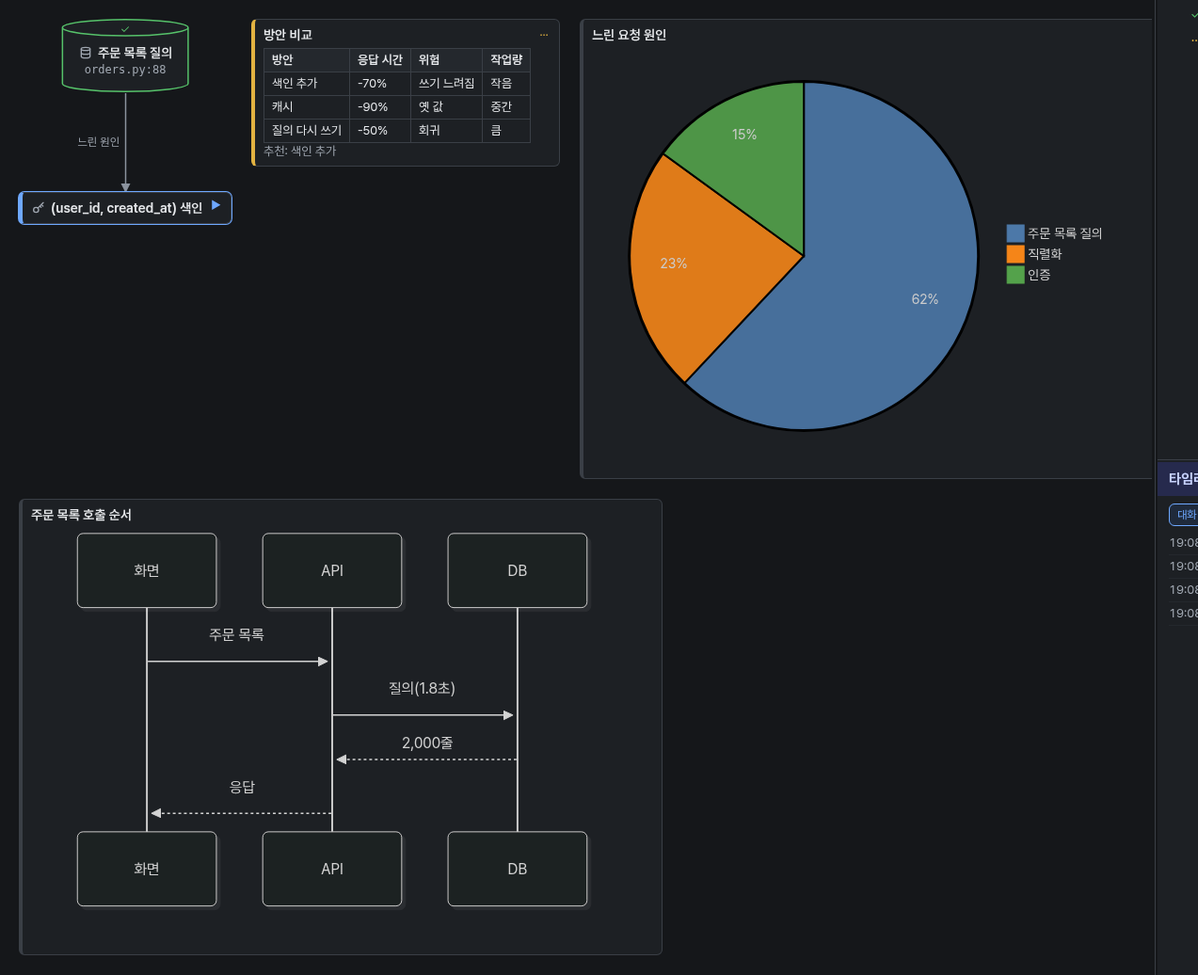
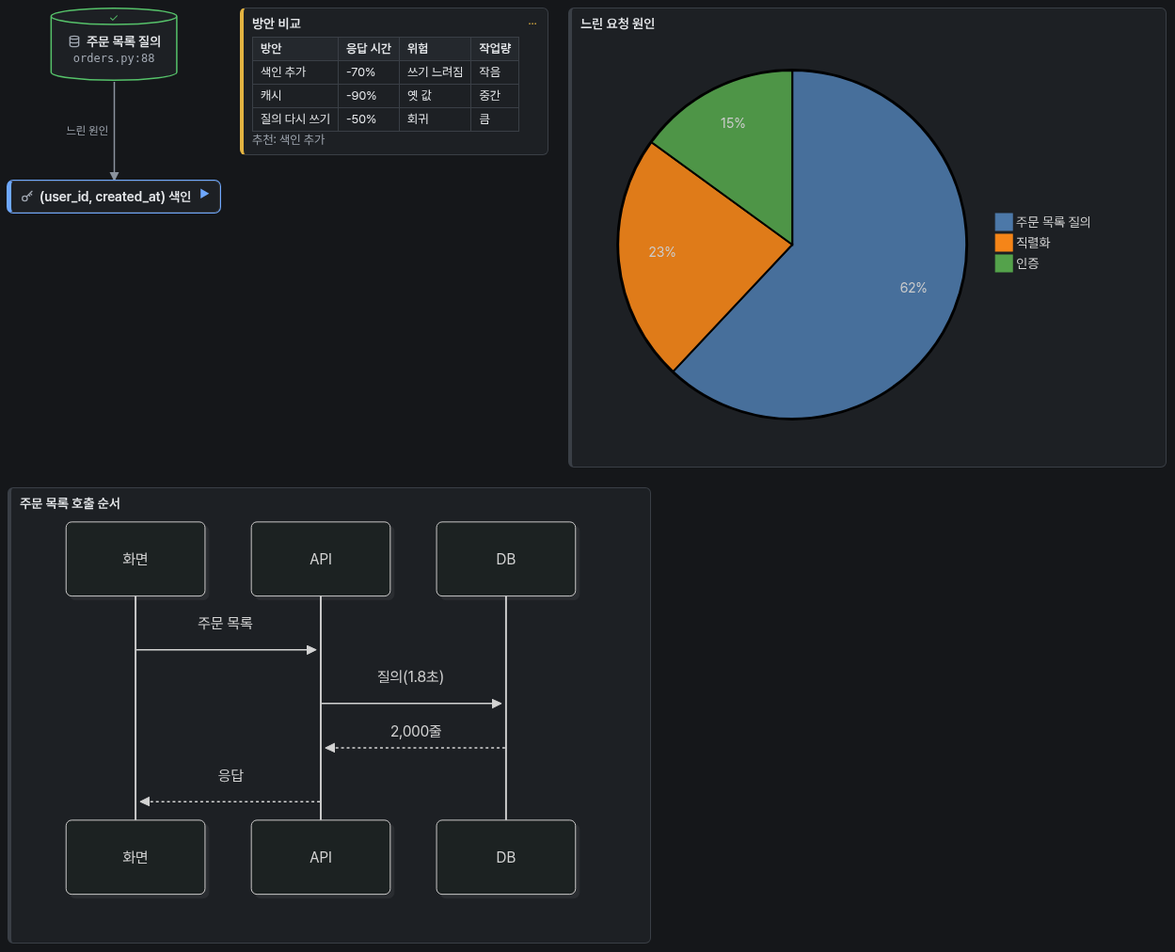
docs: shorten the README to a summary with one image per screen
- README 를 요약과 그림 위주로 줄임
- 그림 사진에서 옆 칸 조각을 뺌

diff --git a/verify/readme_shots.js b/verify/readme_shots.js
@@ -240,9 +240,12 @@ async function main() {
     await open(A, theme);
     await shot("hero", theme);
     // 그림 형식: 표·원 차트·시퀀스·모양 상자. 줄이면 글이 읽히지 않으므로 창을 넓혀 원래 크기로 찍고 그림 자리만 자른다
-    await viewport(2200, 1400);
+    await viewport(2600, 1400);
     await open(B, theme, false);
-    await shot("forms", theme, await rectOf("#canvas", 12));
+    // 그림 요소는 보이는 칸보다 넓을 수 있어 둘이 겹치는 자리만 찍는다(넘치면 오른쪽 칸이 잘려 들어온다)
+    const c = await rectOf("#canvas"), s = await rectOf("#canvas-scroll");
+    const fx = Math.max(c.x, s.x), fy = Math.max(c.y, s.y);
+    await shot("forms", theme, { x: fx, y: fy, width: Math.min(c.x + c.width, s.x + s.width) - fx, height: Math.min(c.y + c.height, s.y + s.height) - fy });
     await viewport(W, H);
     // 세션 목록: 프로젝트 묶음, Claude·Codex 로고, 펼친 지난 세션
     await open(A, theme);

diff --git a/README.md b/README.md
@@ -7,196 +7,116 @@
   <img src="docs/images/hero-light.png" alt="AnyTaskView board. Left: session list grouped by project, with running conversations as cards (step progress bar, current step, this turn's edits and commands, the decision each waits for), with Claude and Codex logos and a 'past sessions' group (expanded here). Middle: a diagram the agent drew, with a rounded screen box, a decision diamond, a server box and a database cylinder joined by labelled arrows, a results table, a document box and a hexagon waiting for approval. Right: the plan with the current step pinned on top, and a timeline of commands, file edits, notes and the user's prompt. Top: the session name, the current step and a one-line approval banner with 'show more' and 'close' buttons.">
 </picture>
 
-**English summary.** anytaskview is a Linux plugin for coding agents (Claude Code and OpenAI Codex) that shows what the agent is doing on a live board in your local browser: the plan and its current step, a diagram the agent keeps extending while it works (finished groups fold into one box you can click open), notes and decisions, and facts collected automatically by hooks (file edits with their diffs, commands, subagents with a colored name tag you can click to follow one of them). When a task reaches a conclusion the agent can also sum it up as a whiteboard page (판서): it sends only the words, and the board draws them in hand-drawn marker style, one page per task, next to the diagram. Markdown and HTML documents the agent writes (plans, designs, manuals) gather in a Docs tab next to the plan and open rendered, Mermaid included, in place of the diagram; clicking a document box or an edit line opens the document at the changed paragraph. Work that spans several conversations is grouped into projects; each conversation's row in the session list shows its current step and what it waits for, built from its own plans and notes. Session names use Claude Code's own summary title when there is one. You can point at a box or a step on the board and send a comment or instruction back to the agent, search the board and past records, and drag shapes with Ctrl held to rearrange them. The board UI and agent-facing texts are in Korean, and so are the screenshots in this README.
+**English summary.** anytaskview is a Linux plugin for Claude Code and OpenAI Codex that shows what the coding agent is doing on a live board in your local browser.
 
-- Supported agents: Claude Code (tested in the terminal `claude`) and OpenAI Codex (terminal `codex`, ChatGPT desktop app, VS Code). Other agents are not supported yet.
-- Requirements: Linux (macOS untested, Windows through WSL), Node.js 22.12 or later, a recent browser, and Claude Code or Codex with plugin support.
-- Install: `claude plugin marketplace add makefiles/anytaskview`, then `claude plugin install anytaskview@anytaskview`. Step-by-step guide that an LLM agent can also follow: [INSTALL.md](INSTALL.md). Agents given only this repository URL should follow INSTALL.md from the top; the two commands alone do not start or open the board. To open the board later, ask the agent to open it, or run `scripts/atv board --open` from the plugin folder (it opens your default browser without printing the key).
-- OpenAI Codex (CLI, desktop app, VS Code) works too: `codex plugin marketplace add makefiles/anytaskview`, `codex plugin add anytaskview@anytaskview`, allow the six board tools in `~/.codex/config.toml`, and trust the hooks in `/hooks`. See the Codex part of [INSTALL.md](INSTALL.md).
-- Security: the board listens on 127.0.0.1 only and every request needs a token; nothing is sent off the machine. Details and limits: [SECURITY.md](SECURITY.md).
-- License: Apache-2.0. Bundled browser libraries and fonts keep their own licenses (ELK: EPL-2.0, Mermaid: MIT, Rough.js: MIT, Pretendard and Nanum Pen Script: SIL OFL 1.1).
-- Trademarks: Claude and the Claude logo are trademarks of Anthropic, PBC; Codex, ChatGPT and the OpenAI logo are trademarks of OpenAI. The board shows these logos (the OpenAI logo recoloured blue for Codex sessions) only to tell which agent a session belongs to. anytaskview is not affiliated with or endorsed by either company.
+- The agent posts its plan, a diagram of the problem and its decisions. Hooks add file edits (with diffs), commands and subagents automatically.
+- When a task reaches a conclusion, the agent sums it up as a hand-drawn whiteboard page (판서).
+- Session cards show each conversation's progress and what it waits for. You can point at a box and send the agent a comment.
+- Claude Code: run `claude plugin marketplace add makefiles/anytaskview` and `claude plugin install anytaskview@anytaskview`, then start a new session and ask the agent to open the board. Codex (plugin commands, allowing the board tools, trusting the hooks) and every other step are in [INSTALL.md](INSTALL.md); its steps are in Korean, each with a command and a check. Agents given only this URL should follow INSTALL.md from the top.
+- Needs Linux (Windows through WSL) and Node.js 22.12 or later. The UI is in Korean. The board listens on 127.0.0.1 only and needs a token ([SECURITY.md](SECURITY.md)). License: Apache-2.0.
+
+Claude and the Claude logo are trademarks of Anthropic, PBC; Codex, ChatGPT and the OpenAI logo are trademarks of OpenAI. The board shows these logos (the OpenAI logo recoloured blue for Codex) only to tell sessions apart; anytaskview is not affiliated with or endorsed by either company.
 
 ---
 
-코딩 에이전트(Claude Code, OpenAI Codex)가 일하는 동안 지금 하는 일을 이 PC 의 브라우저 화판에 실시간으로 보여 주는 Linux 용 플러그인입니다.
+코딩 에이전트(Claude Code, OpenAI Codex)가 지금 하는 일을 이 PC 의 브라우저 화판에 실시간으로 보여 주는 Linux 용 플러그인입니다.
 
-- 에이전트가 작업과 그 단계, 문제 구조 그림, 이유·결정 메모를 짧은 도구 호출로 올립니다.
-- 파일 수정, 명령, 하위 에이전트, 입력 필요 같은 사실은 에이전트의 훅이 자동으로 올립니다. 사실은 그때의 단계에 붙고, 그림 속 상자의 파일이 수정되면 그 상자에 「수정됨」 이 붙습니다.
-- 작업에 결론이 나면 에이전트가 그 핵심을 판서 한 장으로 정리합니다. 에이전트는 제목·칸·짧은 줄·강조만 보내고, 화판이 화이트보드에 보드마커로 쓴 것처럼 그립니다. 판서는 작업마다 한 장이고, 그림 위 「그림 | 판서」 로 바꿔 봅니다.
-- 에이전트가 만들거나 고친 md·html 문서(계획서·설계서·매뉴얼)는 작업 칸의 「문서」 탭에 모이고, 누르면 그림 자리에 렌더된 화면(Mermaid 그림 포함)으로 열립니다. 문서 상자나 타임라인의 수정 줄을 누르면 그 문서의 바뀐 문단으로 갑니다.
-- 하위 에이전트마다 맡은 일과 색 점으로 된 이름표가 작업 칸 위와 타임라인 줄 앞에 붙고, 누르면 그 에이전트의 줄만 보입니다. 하위 에이전트는 화판에 직접 그리지 않고, 결과를 받은 상위 에이전트가 그립니다.
-- 에이전트가 다른 LLM 에 일을 시키면(`codex exec`·`codex review`·Codex 플러그인 작업, `claude -p`, `gemini -p`, `opencode run`, `copilot -p`, `aider --message`, `ollama run`) 도는 동안 작업 칸 위와 세션 줄에 그 이름의 표와 걸린 시간이 보이고, 타임라인의 그 명령 줄에도 표가 붙습니다.
-- 세션 목록의 진행 중인 대화는 카드로 보입니다. 카드에는 단계 진척 막대와 「지금: 단계」, 이번 차례(마지막 입력 뒤)에 고친 파일·명령 수와 실패한 명령, 브랜치, 기다리는 결정이나 막힌 까닭, 마지막 요청·답이 붙습니다(긴 글은 눌러서 펼침). 모두 각 대화의 기록으로 자동으로 만들어서, 에이전트가 따로 그리지 않습니다. 여러 대화에 걸친 일은 프로젝트로 묶입니다.
-- 세션 이름은 Claude Code 가 붙인 요약 제목이 있으면 그것을 쓰고, 없으면 첫 입력을 씁니다(첫 입력은 마우스를 올리면 보임).
-- 화판 탭이 30초 넘게 하나도 열려 있지 않으면 에이전트가 대화 화판에 그리는 호출을 건너뛰어 토큰을 아낍니다. 탭을 열면 다음 도구 호출이나 입력 때 지금 작업·단계와 그림을 한 번에 다시 올립니다. 그 사이의 그림 변화는 재생에 남지 않습니다. 훅이 올리는 사실은 계속 쌓입니다.
-- 화판의 상자나 단계를 가리켜 그 자리에서 에이전트에 의견·지시를 보낼 수 있습니다.
-
-## 지원하는 에이전트
-
-| 에이전트 | 쓰는 곳 | 비고 |
-|---|---|---|
-| Claude Code | 터미널 `claude`, VS Code | 모든 기능을 씁니다. VS Code 확장은 같은 설치(`~/.claude`)를 쓰며 작업·그림·훅을 확인했습니다(화판에서 보내기는 시험 전). 데스크톱 앱은 시험하지 않았습니다. |
-| OpenAI Codex | 터미널 `codex`, ChatGPT 데스크톱 앱, VS Code | 모든 기능을 씁니다(`codex-cli` 0.163·0.164 에서 시험). 설치 뒤 그리기 도구를 허용하고 훅을 믿어 줘야 하며, 화판에서 보낸 글은 일하는 중이면 그 차례가 끝난 뒤 받습니다. |
-| 그 밖의 에이전트 | | 아직 지원하지 않습니다. |
-
-세션 목록에는 Claude·Codex 로고가 붙어 어느 에이전트의 세션인지 보입니다. 화면 글과 에이전트에 주는 안내는 한국어입니다.
-
-## 필요한 것
-
-- Linux. macOS 는 시험하지 않았고, Windows 는 WSL 에서 씁니다.
-- Claude Code 또는 OpenAI Codex(플러그인을 쓰는 판)
-- Node.js 22.12 이상. `PATH` 의 node 가 오래됐으면 nvm 으로 깐 node 를 찾아 쓰고, 그래도 없으면 `ANYTASKVIEW_NODE` 에 node 경로를 넣습니다.
-- Chrome·Edge·Firefox 같은 최근 브라우저
-
-실행에 필요한 npm 패키지는 없습니다(브라우저 라이브러리와 글꼴은 `web/vendor/` 에 들어 있습니다).
+- 에이전트가 작업과 단계, 문제 구조 그림, 결정 메모를 올립니다.
+- 파일 수정·명령·하위 에이전트는 훅이 자동으로 올립니다.
+- 작업에 결론이 나면 에이전트가 그 핵심을 손그림 판서 한 장으로 정리합니다.
+- 세션 카드에서 대화마다 진척과 기다리는 결정을 봅니다.
+- 화판의 상자나 단계를 가리켜 에이전트에 의견을 보냅니다.
 
 ## 설치
 
-### Claude Code
-
-터미널에서:
+Claude Code 는 터미널에서 이렇게 설치합니다.
 
 ```sh
 claude plugin marketplace add makefiles/anytaskview
 claude plugin install anytaskview@anytaskview
 ```
 
-Claude Code 안에서는 `/plugin marketplace add makefiles/anytaskview` 와 `/plugin install anytaskview@anytaskview` 입니다. 이미 열려 있는 세션에서는 `/reload-plugins` 를 실행합니다.
+Codex 설치, 처음 열기, 갱신·삭제는 [INSTALL.md](INSTALL.md) 에 있습니다.
+설치한 뒤 새 세션을 열고(열려 있던 세션은 `/reload-plugins` 뒤) 「화판 열어 줘」 라고 하면 브라우저로 열립니다.
 
-자세한 순서와 확인 방법, 갱신·삭제는 [INSTALL.md](INSTALL.md) 에 있습니다.
-
-### OpenAI Codex
-
-터미널에서:
-
-```sh
-codex plugin marketplace add makefiles/anytaskview
-codex plugin add anytaskview@anytaskview
-```
-
-설치한 뒤 두 가지를 더 합니다.
-
-- 그리기 도구 여섯을 사용자 Codex 설정 `~/.codex/config.toml` 에서 늘 허용합니다(붙일 줄은 INSTALL.md 「C2」). 허용하지 않으면 도구를 부를 때마다 승인을 묻고, `codex exec` 에서는 호출이 실패합니다.
-- `codex` 를 띄워 `/hooks` 에서 `anytaskview@anytaskview` 의 훅을 믿어 줍니다. 믿기 전에는 명령·파일 수정 같은 사실이 화판에 오르지 않고, 화판에서 글을 보낼 수 없습니다.
-
-터미널 `codex`, ChatGPT 데스크톱 앱, VS Code 의 Codex 가 같은 설치를 씁니다. 자세한 순서와 확인 방법, 갱신·삭제는 [INSTALL.md](INSTALL.md) 의 「Codex 에 설치」 에 있습니다.
-
-### 새 판 받기
-
-새 판은 저절로 오지 않고, 새 판이 나왔다는 알림도 없습니다. 소식은 이 저장소의 Watch → Custom → Releases 로 받습니다.
-
-- Claude Code: `/plugin` → Marketplaces → anytaskview → Enable auto-update 를 켜면 새 판을 받아 옵니다(기본은 꺼짐). 손으로 받을 때는 `claude plugin marketplace update anytaskview` 와 `claude plugin update anytaskview@anytaskview` 입니다.
-- Codex: `codex plugin marketplace upgrade anytaskview` 를 실행합니다.
-- 받은 뒤 새 세션을 열면(Claude Code 는 열린 세션에서 `/reload-plugins` 도 됩니다) 새 판이 떠 있던 옛 화판 서버를 내리고 다시 띄우며, 열린 화판 탭도 새로 읽습니다. 이 기능이 들어가기 전 판에서 처음 갱신할 때만 열린 화판 탭을 모두 한 번씩 직접 새로 고칩니다. Claude Code 와 Codex 를 함께 쓰면 두 쪽을 같은 판으로 받습니다(INSTALL.md 「갱신」).
-
-### LLM 에게 설치를 맡기려면
-
-Claude Code·Codex 같은 코딩 에이전트에 이렇게 말하면 됩니다.
+LLM 에게 맡기려면 이렇게 말합니다. 설치하는 그 세션에서는 두 명령만으로 화판이 뜨지 않으므로, 에이전트는 INSTALL.md 를 처음부터 따릅니다.
 
 > https://github.com/makefiles/anytaskview 의 INSTALL.md 를 읽고 그대로 설치하고 확인해 줘
 
-저장소 주소만 받은 에이전트도 위 두 명령에서 멈추지 말고 INSTALL.md 를 처음부터 따라야 합니다(두 명령만으로는 화판이 뜨거나 열리지 않습니다). INSTALL.md 는 에이전트가 그대로 따라 할 수 있도록 명령과 확인 기준을 단계마다 적었습니다. 화판 주소에는 비밀 값이 들어 있으므로, 에이전트는 주소를 찍지 않는 `--open` 으로 브라우저를 열고 주소를 대화창에 옮겨 적지 않게 했습니다.
-
-갱신을 맡길 때는 이렇게 말합니다.
-
-> https://github.com/makefiles/anytaskview 의 INSTALL.md 「갱신」 을 읽고 anytaskview 플러그인을 새 판으로 갱신해 줘
-
-에이전트가 대신할 수 없는 일은 사람이 합니다. Claude Code 는 갱신한 뒤 `/reload-plugins` 를 직접 입력하거나 새 세션을 엽니다. Codex 는 갱신 명령에 승인을 묻고, 승인한 뒤 새 세션을 엽니다.
-
-## 처음 열기
-
-가장 쉬운 방법은 Claude Code(또는 Codex) 세션에서 「화판 열어 줘」 라고 하는 것입니다. 에이전트가 아래 명령을 실행해 화판 서버를 띄우고(없으면) 이 PC 의 기본 브라우저로 엽니다. 열쇠가 든 주소는 화면이나 대화에 찍히지 않습니다. 터미널에서 직접 실행해도 됩니다.
-
-```sh
-"$(for d in ~/.claude/plugins/cache/anytaskview/anytaskview/*/; do [ -e "${d}.orphaned_at" ] || echo "$d"; done | tail -n 1)scripts/atv" board --open
-```
-
-Codex 로만 설치했다면 플러그인 폴더가 `~/.codex/plugins/cache/anytaskview/anytaskview/local/` 이므로 `~/.codex/plugins/cache/anytaskview/anytaskview/local/scripts/atv board --open` 을 실행합니다.
-
-한 번 연 뒤로는 그 브라우저에서 `http://127.0.0.1:4871/` 만 열면 됩니다. PC 를 다시 켜도 기록은 상태 폴더에 남아 있어, 세션을 열고 화판을 다시 열면 그대로 보입니다.
-
-브라우저를 여는 명령이 없는 환경(원격 셸 따위)에서는 같은 명령을 `--url` 로 바꿔 실행하고, 찍힌 주소를 이 PC 의 브라우저로 한 번 엽니다.
-
-주소에는 읽기 토큰(`?t=`)과 화판 쓰기 열쇠(`#w=`)가 들어 있습니다. 다른 사람에게 보내거나 이슈·대화에 붙이지 마세요. `--url` 은 이 사용자의 화판 서버가 떠 있을 때만 주소를 줍니다.
+- 지원: Claude Code(터미널, VS Code), OpenAI Codex(터미널, ChatGPT 데스크톱 앱, VS Code). Claude Code VS Code 에서 화판의 「보내기」 는 아직 시험하지 않았습니다.
+- 필요한 것: Linux(Windows 는 WSL), Node.js 22.12 이상, 최근 브라우저
+- 새 판 소식: 이 저장소의 Watch → Custom → Releases
 
 ## 화면
 
-### 그림: 내용에 맞는 형식을 섞어 그립니다
+### 그림
 
 <picture>
   <source media="(prefers-color-scheme: dark)" srcset="docs/images/forms-dark.png">
   <img src="docs/images/forms-light.png" alt="형식을 섞은 그림: 원통 모양 DB 상자와 색인 상자를 잇는 화살표, 방안 셋의 응답 시간·위험·작업량을 비교한 표, 느린 요청 원인의 원 차트, 주문 목록 호출 순서(화면·API·DB)의 시퀀스 다이어그램.">
 </picture>
 
-에이전트는 상태를 고쳐 갈 부분은 상자(둥근 네모·마름모·원통·문서·육각형 모양과 아이콘)와 선으로, 비교·결과는 표로, 호출 순서·비율·일정은 Mermaid 다이어그램과 차트로 그립니다. 상자의 테두리 색과 기호가 진행·끝·실패·막힘·승인 대기를 보입니다.
+에이전트가 내용에 맞춰 상자와 선, 표, Mermaid 다이어그램을 섞어 그립니다.
+상자의 색과 기호로 진행·끝·실패·막힘을 보입니다.
+파일이 걸린 상자를 누르면 그 파일의 바뀐 줄이 열립니다.
 
-### 판서: 작업의 핵심을 한 장으로
+### 판서
 
 <picture>
   <source media="(prefers-color-scheme: dark)" srcset="docs/images/talk-dark.png">
   <img src="docs/images/talk-light.png" alt="판서 한 장: 화이트보드에 손글씨로 쓴 제목 「쿠폰이 두 번 깎인다?」 와 부제, 파랑·초록·주황 둥근 상자 셋(문제·원인·해결)과 그 사이의 「왜?」 · 「그래서」 화살표. 원인 칸은 말풍선·마름모·상자를 잇는 흐름이고 「다시 할인」 에 빨간 동그라미, 해결 칸에 초록 체크와 빨간 밑줄. 아래에 노란 포스트잇 「왜 서버 값만?」 과 「정리」 상자.">
 </picture>
 
-작업에 결론이 나면(조사 결과, 고른 안, 끝낸 일) 에이전트가 그 작업의 핵심을 한 장으로 정리합니다. 에이전트는 제목·칸(2~4개)·짧은 줄·강조만 보내고, 자리와 색, 손그림 선과 손글씨는 화판이 정합니다. 칸마다 마커 색이 하나씩이고 빨강은 강조(빨간 글·밑줄·동그라미)에만 씁니다. 형광펜, 고른 안 표시, 번호 단계, 노란 포스트잇, 「이를테면…」 비유 칸, 「정리」 상자도 씁니다. 판서는 작업마다 한 장이고 같은 작업에서 다시 그리면 그 장이 바뀝니다. 그림 위 「그림 | 판서」 로 바꿔 보고 ◀ ▶ 로 장을 넘깁니다. 새 장이 와도 보던 화면은 그대로이고 「판서」 탭이나 ▶ 에 점이 붙습니다. 지금 작업의 판서가 없으면 「판서 부탁」 으로 에이전트에 부탁합니다(쉬는 대화는 깨웁니다). 화이트보드는 어두운 테마에서도 흰 판입니다.
+작업에 결론이 나면 에이전트가 그 핵심을 한 장으로 정리합니다.
+에이전트는 글만 보내고, 자리와 손그림은 화판이 정합니다.
+그림 위 「그림 | 판서」 로 바꿔 보고, ◀ ▶ 로 장을 넘깁니다.
 
-### 세션 목록 · 가리키고 보내기
+### 세션 목록
 
 <picture>
   <source media="(prefers-color-scheme: dark)" srcset="docs/images/sessions-dark.png">
-  <img src="docs/images/sessions-light.png" alt="세션 목록: 프로젝트 묶음 안의 Codex 세션(파란 OpenAI 로고)과 작업 중인 Claude 세션(왼쪽 파란 띠와 옅은 파란 바탕, 「작업 중」 글자에 빛이 지나감), 「프로젝트 없음」 묶음의 입력을 기다리는 세션(왼쪽 주황 띠와 옅은 주황 바탕), 며칠 전에 끝난 대화가 든 「지난 세션」. 위의 정렬 단추는 「시작순」.">
-</picture>
-<picture>
-  <source media="(prefers-color-scheme: dark)" srcset="docs/images/send-dark.png">
-  <img src="docs/images/send-light.png" alt="「할인 API」 상자에 대해 연 보내기 창: 받는 곳, 의견·지시 고르기, 쓴 글, 「모아 두기」·「보내기」 단추.">
+  <img src="docs/images/sessions-light.png" alt="세션 목록: 프로젝트 묶음 안의 Codex 세션(파란 OpenAI 로고)과 작업 중인 Claude 세션(왼쪽 파란 띠와 옅은 파란 바탕, 「작업 중」 글자에 빛이 지나감), 「프로젝트 없음」 묶음의 입력을 기다리는 세션(왼쪽 주황 띠와 옅은 주황 바탕). 위의 정렬 단추는 「시작순」.">
 </picture>
 
-세션은 프로젝트별로 묶이고, Claude·Codex 로고로 어느 에이전트의 세션인지 보입니다. 작업 중인 세션은 파란 띠·바탕에 「작업 중」 글자가 반짝이고, 입력이 필요한 세션은 주황 띠·바탕에 「입력 필요」 글자가 반짝입니다. 지금 보는 세션이 일하는 동안에는 작업 칸의 「지금」 줄도 반짝입니다. 상자나 단계에 마우스를 올리면 뜨는 「보내기」 로 그 자리에 대해 의견·지시를 보냅니다.
+세션은 프로젝트(화판에서 만들어 대화를 넣는 묶음)별로 묶이고, 로고로 어느 에이전트의 세션인지 보입니다.
+작업 중인 세션은 파란 띠, 입력이 필요한 세션은 주황 띠가 붙습니다.
 
-### 세션 카드와 프로젝트
+### 세션 카드
 
 <picture>
   <source media="(prefers-color-scheme: dark)" srcset="docs/images/project-dark.png">
   <img src="docs/images/project-light.png" alt="세션 목록의 프로젝트 묶음에 든 두 대화 카드: 상태·시각·폴더, 단계 진척 막대와 「지금: 단계」, 이번 차례의 파일·명령·실패한 명령, 결정 대기 글과 펼친 마지막 요청·답.">
 </picture>
 
-세션 목록의 진행 중인 대화는 카드로 보입니다. 카드에는 상태·마지막 활동·폴더·브랜치(⎇), 단계 진척 막대와 「지금: 단계」, 이번 차례(마지막 입력 뒤)에 고친 파일·명령 수와 실패한 명령이 붙습니다. 결정을 기다리거나 막혀 있으면 그 글이 한 줄 붙고, 「마지막 요청·답」 으로 쉬는 대화가 무엇을 하다 멈췄는지 봅니다(둘 다 한 줄로 접혀 있고 눌러서 펼침). 이어받기 문구로 이어진 대화는 「← 키」 가 보입니다. 모두 각 대화의 기록으로 자동으로 만들어서 따로 그리지 않고 늘 최신입니다. 끝난 대화는 한 줄로 남습니다. 여러 대화에 걸친 일은 프로젝트로 묶이고, 프로젝트 이름을 누르면 그 묶음을 펴고 접으며, 세션 화판 맨 위의 「프로젝트 …」·「프로젝트 없음」 을 누르면 이 대화를 넣을 프로젝트를 고르거나 프로젝트에서 뺍니다. 목록은 경계선을 끌어 560px 까지 넓힐 수 있습니다.
+진행 중인 대화는 카드로 보입니다.
+단계 진척, 지금 단계, 이번 차례에 고친 파일·명령, 기다리는 결정이 기록에서 저절로 채워집니다.
+화판 맨 위 막대의 「프로젝트 …」(프로젝트가 없으면 「프로젝트 없음」)를 누르면 대화를 넣을 프로젝트를 고릅니다.
 
-### 화면 구성
+### 가리키고 보내기
 
-- 왼쪽: 세션 목록. 프로젝트별로 묶이고, 목록 위 정렬 단추(처음에는 「시작순 ▾」)에서 시작순·활동순·이름순을 고르거나 끝난 세션을 숨깁니다. 끝난 지 하루가 지난 대화는 「지난 세션」 에 접혀 들어갑니다. 진행 중인 대화는 카드(위 「세션 카드와 프로젝트」)로 보입니다. 프로젝트 이름을 누르면 그 묶음을 펴고 접습니다.
-- 가운데: 에이전트가 그린 그림과 판서(위 「그림 | 판서」 로 바꿈, 위 「판서」 절). 내용에 맞춰 상자(모양·아이콘)와 선, 표, Mermaid 다이어그램·차트(시퀀스·상태·간트·타임라인·원·막대 등)를 섞어 그립니다. 파일 위치가 붙은 상자를 누르면 이 세션에서 그 파일을 고친 바뀐 줄(diff)이 창으로 열리고, 바뀐 줄이 남은 수정이 없으면 파일 경로를 복사합니다. md·html 을 가리키는 상자(「문서」 표)는 누르면 문서가 열리고, 「수정됨」 표를 누르면 바뀐 줄이 열립니다. `Ctrl` 을 누른 채 도형을 끌면 원하는 자리로 옮기고, 놓은 자리는 기록에 남습니다(그림 위 「자동 배치로」 로 모두 되돌림). 그림이 지금 작업의 단계보다 먼저 그린 것이면 그림 위에 「지난 작업 때 그린 그림」 이 붙습니다. 같은 일의 뒤 작업은 그림을 지우지 않고 새 묶음으로 덧붙이고, 끝난 묶음은 상자 하나로 접혀 누르면 펼쳐집니다.
-- 오른쪽: [작업 | 문서] 탭(지금 단계는 위에 고정)과 타임라인(사실·메모·보낸 글). 「작업」 탭은 위 단계 = 작업, 그 아래 = 단계인 나무 하나로, 지금 작업은 카드로 펼쳐 보이고 끝난 작업은 한 줄씩(오래된 것은 한 줄로 접힘), 다음 작업은 그 아래에 보입니다. /clear·이어받기 문구로 이어진 앞 대화도 맨 위에 한 줄씩 보이고, 누르면 그 대화의 단계가 펼쳐집니다. 「문서」 탭에는 이 작업(화판 프로젝트면 그 프로젝트 전체)에서 만들거나 고친 md·html 이 모입니다. 탭에는 중요 문서(이름·제목에 설계·계획·매뉴얼·design·plan·spec·guide·README 같은 말이 든 문서, 그림에 걸린 문서, 📌 고정)만 보이고 나머지는 「모든 문서」 에 있으며, 아직 열어 보지 않은 변경에는 점이 붙습니다. 문서는 그림 자리에 열리고(목차, 문서 안 링크 따라가기, 고쳐지면 읽던 자리를 지켜 다시 그림), 「← 그림으로」 나 `Esc` 로 닫으며, 「↗ 새 창」 으로 문서만 넓게 봅니다. html 은 화판과 분리된 틀 안에서 그 모양 그대로 보입니다. 타임라인은 「새 창」 으로 떼어 볼 수 있습니다. 「수정」 줄을 누르면 그 수정의 바뀐 줄(diff)이 창으로 열리고, md·html 의 수정 줄은 문서가 열려 그 수정이 바꾼 문단에 색 띠가 붙습니다.
-- 아래: 재생 막대. 지난 상태를 처음부터 다시 봅니다. ▶ 를 누르면 기록이 차례로 흘러가고(빠르기 1×·4×·16×), 끝에서 멈춥니다.
-- 맨 위 주의 띠(입력 필요·승인 대기·막힘·실패, 끝난 묶음 안의 실패는 빼고)는 한 줄로 접혀 「외 N개」 로 펴고, 「닫기」 로 숨깁니다(새 알림이 오면 다시 보임). 그림이 칸보다 크면 마우스로 잡아 끌어 옮깁니다.
-- 맨 위 「찾기」(`/` 또는 `Ctrl+K`)는 이 화판의 그림·작업, 이 세션의 타임라인(옛 기록까지), 세션·프로젝트, 다른 세션의 기록에서 찾고, 고르면 그 자리로 갑니다.
-- 상자나 단계에 마우스를 올리거나 초점을 두면 「보내기」 가 뜹니다. 여러 글을 「모아 두기」 로 모았다가 한꺼번에 보낼 수도 있습니다. 쓰다 둔 글과 모은 글은 브라우저를 닫아도 남습니다.
-- 맨 위 「설정」 에서 이어받기 문구(예: `이어서 <키>`)를 정하면, 그 문구로 시작한 대화를 같은 키의 앞 대화와, 그 키를 가진 프로젝트에 잇습니다(키를 가진 프로젝트가 없으면 새로 만들지 않습니다). 기본은 꺼져 있습니다.
-- 끝난 뒤 30일이 지난 대화는 휴지통(`~/.local/state/anytaskview/trash/`, 30일 뒤 비움)으로 옮깁니다. 진행 중인 프로젝트에 든 대화는 남깁니다. 날수는 「설정」 에서 바꾸거나 끕니다.
-- 자세한 사용법은 화면의 「도움말」(`?` 키)에 있습니다.
+<picture>
+  <source media="(prefers-color-scheme: dark)" srcset="docs/images/send-dark.png">
+  <img src="docs/images/send-light.png" alt="「할인 API」 상자에 대해 연 보내기 창: 받는 곳, 의견·지시 고르기, 쓴 글, 「모아 두기」·「보내기」 단추.">
+</picture>
+
+상자나 단계에 마우스를 올리면 「보내기」 가 뜹니다.
+그 자리에 대한 의견·지시를 써서 에이전트에 보냅니다.
+
+문서 보기, 찾기, 재생, 하위 에이전트 이름표, 설정 같은 나머지 기능은 화면의 「도움말」(`?` 키)에 있습니다.
 
 ## 데이터와 보안
 
-- 화판 서버는 127.0.0.1 에만 묶이고, 모든 요청에 토큰이 필요합니다. 이 PC 밖으로 보내는 것은 없습니다. 예외로, 문서 창에서 연 html 이 공개 CDN(cdnjs·jsDelivr·unpkg)·Google 글꼴을 부르면 그 요청은 나갑니다.
-- 문서 보기는 목록에 오른 문서와, 그 문서가 든 git 저장소(저장소가 아니면 그 폴더) 안의 md·html·그림만 읽습니다(읽기 전용).
-- 기록은 `~/.local/state/anytaskview/` 에 이 사용자만 읽을 수 있게 둡니다(`ANYTASKVIEW_HOME` 으로 바꿀 수 있습니다). 사용자 입력과 명령 줄, 파일 경로, 에이전트의 차례 끝 답(4,000자까지), 파일 수정의 바뀐 줄(수정 한 번에 16KB까지, 설정에서 끔~512KB 를 16KB 단위로)이 들어가며 흔한 비밀 모양은 가립니다.
-- 여러 사용자 계정이 함께 쓰는 컴퓨터에서는 권하지 않습니다(화판 서버가 꺼진 사이 다른 사용자가 포트를 잡으면 브라우저의 열쇠를 가로챌 수 있습니다).
-- 남은 한계와 신고 방법은 [SECURITY.md](SECURITY.md) 에 있습니다.
-
-## 문제 해결
-
-- 화판이 안 뜸: 에이전트 세션을 새로 열거나, 위의 `scripts/atv board` 로 직접 띄웁니다. 로그는 `~/.local/state/anytaskview/board.log` 입니다.
-- 「쓰기 열쇠 없음」 이 보임: `scripts/atv board --open` 으로 다시 엽니다(다른 브라우저·시크릿 창·쿠키를 지운 경우).
-- 플러그인을 갱신한 뒤 「화판 서버가 다른 판」 이라고 나옴: 옛 판 서버를 내립니다(INSTALL.md 「갱신」).
-- node 를 찾지 못함: `ANYTASKVIEW_NODE=/path/to/node` 를 Claude Code·Codex 를 띄우는 환경에 넣습니다.
+화판 서버는 127.0.0.1 에만 묶이고, 모든 요청에 토큰이 필요합니다.
+기록은 `~/.local/state/anytaskview/` 에 이 사용자만 읽게 두고, 이 PC 밖으로 보내지 않습니다.
+예외와 남은 한계는 [SECURITY.md](SECURITY.md) 에 있습니다.
 
 ## 개발
 
 ```sh
 npm install                  # 시험 도구와 브라우저 라이브러리 원본(실행에는 필요 없음)
 npm test                     # 장면 규칙, 서버 보안, 훅, MCP, 선 길 찾기
-node verify/probe_ui.js      # 화면 없는 Chrome 으로 화면 확인(Chrome 필요)
-node verify/readme_shots.js  # 이 README 의 화면 이미지(docs/images) 다시 찍기(예시 데이터만, Chrome 필요)
+node verify/probe_ui.js      # 화면 없는 Chrome 으로 화면 확인
+node verify/readme_shots.js  # 이 README 의 화면 그림 다시 찍기
 claude --plugin-dir .        # 이 폴더를 한 세션에만 붙여 시험
 ```
 
@@ -204,6 +124,7 @@ claude --plugin-dir .        # 이 폴더를 한 세션에만 붙여 시험
 
 ## 라이선스
 
-Apache License 2.0 ([LICENSE](LICENSE)). `web/vendor/` 의 ELK(EPL-2.0), Mermaid(MIT), Rough.js(MIT), 글꼴 Pretendard·나눔손글씨 펜(SIL OFL 1.1)은 각자의 라이선스를 따릅니다([web/vendor/README.md](web/vendor/README.md)).
+Apache License 2.0 ([LICENSE](LICENSE)). `web/vendor/` 의 라이브러리와 글꼴은 각자의 라이선스를 따릅니다([web/vendor/README.md](web/vendor/README.md)).
 
-Claude 와 Claude 로고는 Anthropic, PBC 의, Codex·ChatGPT 와 OpenAI 로고는 OpenAI 의 상표입니다. 화판은 세션이 어느 에이전트의 것인지 알아보게 하려고만 이 로고를 보이며(Codex 세션에는 OpenAI 로고를 파란색으로 칠해 씁니다), anytaskview 는 두 회사와 관계가 없고 두 회사의 보증을 받지 않았습니다.
+Claude 와 Claude 로고는 Anthropic, PBC 의, Codex·ChatGPT 와 OpenAI 로고는 OpenAI 의 상표입니다.
+화판은 어느 에이전트의 세션인지 알아보게 하려고만 이 로고를 쓰며(Codex 세션에는 OpenAI 로고를 파란색으로 칠해 씁니다), anytaskview 는 두 회사와 관계가 없고 두 회사의 보증을 받지 않았습니다.

diff --git a/docs/internals.md b/docs/internals.md
@@ -1,6 +1,6 @@
 # anytaskview 내부 동작
 
-사용법은 [README](../README.md), 설치는 [INSTALL](../INSTALL.md), 보안은 [SECURITY](../SECURITY.md) 에 있다. 여기에는 구조와 동작의 자세한 규칙을 적는다.
+사용법은 [README](../README.md) 와 화면의 「도움말」, 설치는 [INSTALL](../INSTALL.md), 보안은 [SECURITY](../SECURITY.md) 에 있다. 여기에는 구조와 동작의 자세한 규칙을 적는다.
 
 ## 구성
 
